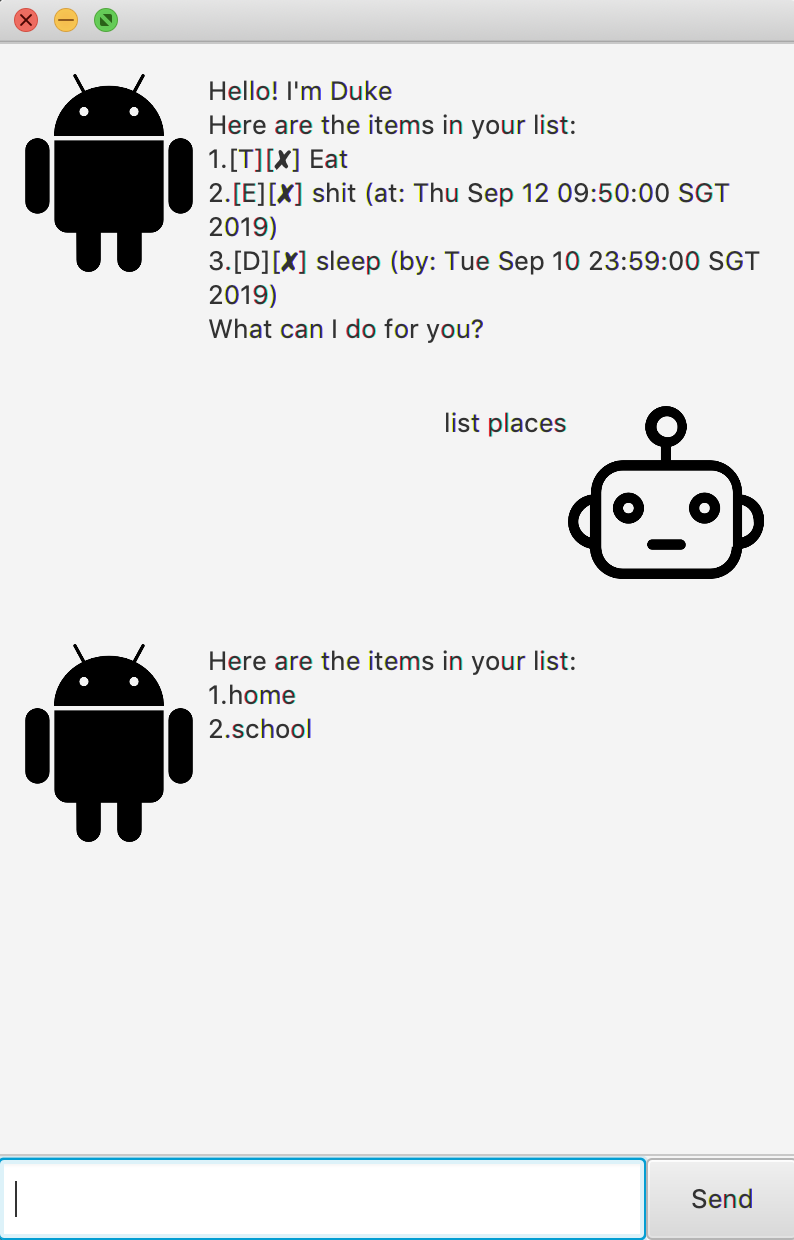
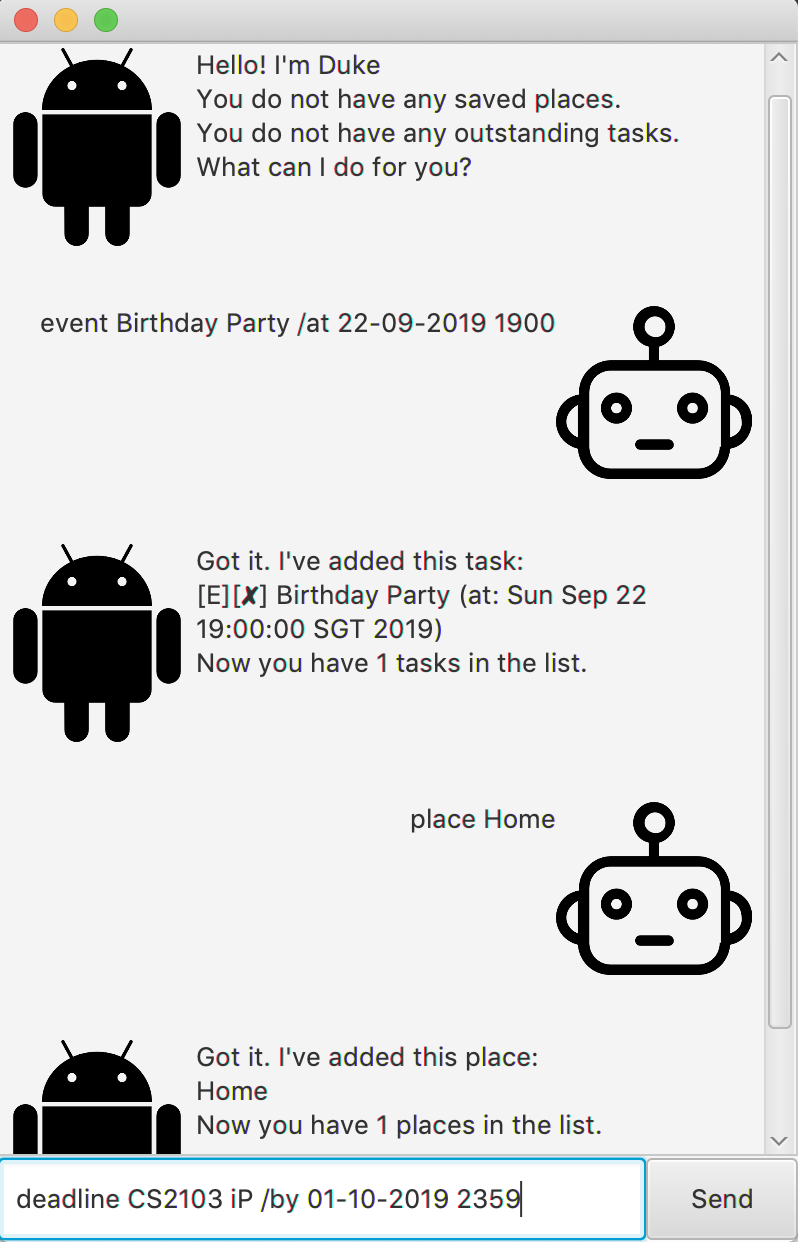
Fixed Text Wrapping, Ui Update

Changed region(s): [[0.0, 0.0, 1.0, 1.0], [0.5139, 0.6435, 0.6952, 0.6742]]

diff --git a/src/main/java/duke/io/DialogBox.java b/src/main/java/duke/io/DialogBox.java
@@ -36,8 +36,8 @@ class DialogBox extends HBox {
         }
 
         //Solution to deal with text clipping taken from Erwin Chan on CS2103/Slack
-        dialog.setMinSize(Label.USE_PREF_SIZE, Label.USE_PREF_SIZE);
-
+        dialog.setMinSize(dialog.getWidth(), Label.USE_PREF_SIZE);
+        dialog.wrapTextProperty();
         dialog.setText(text);
         displayPicture.setImage(img);
     }
